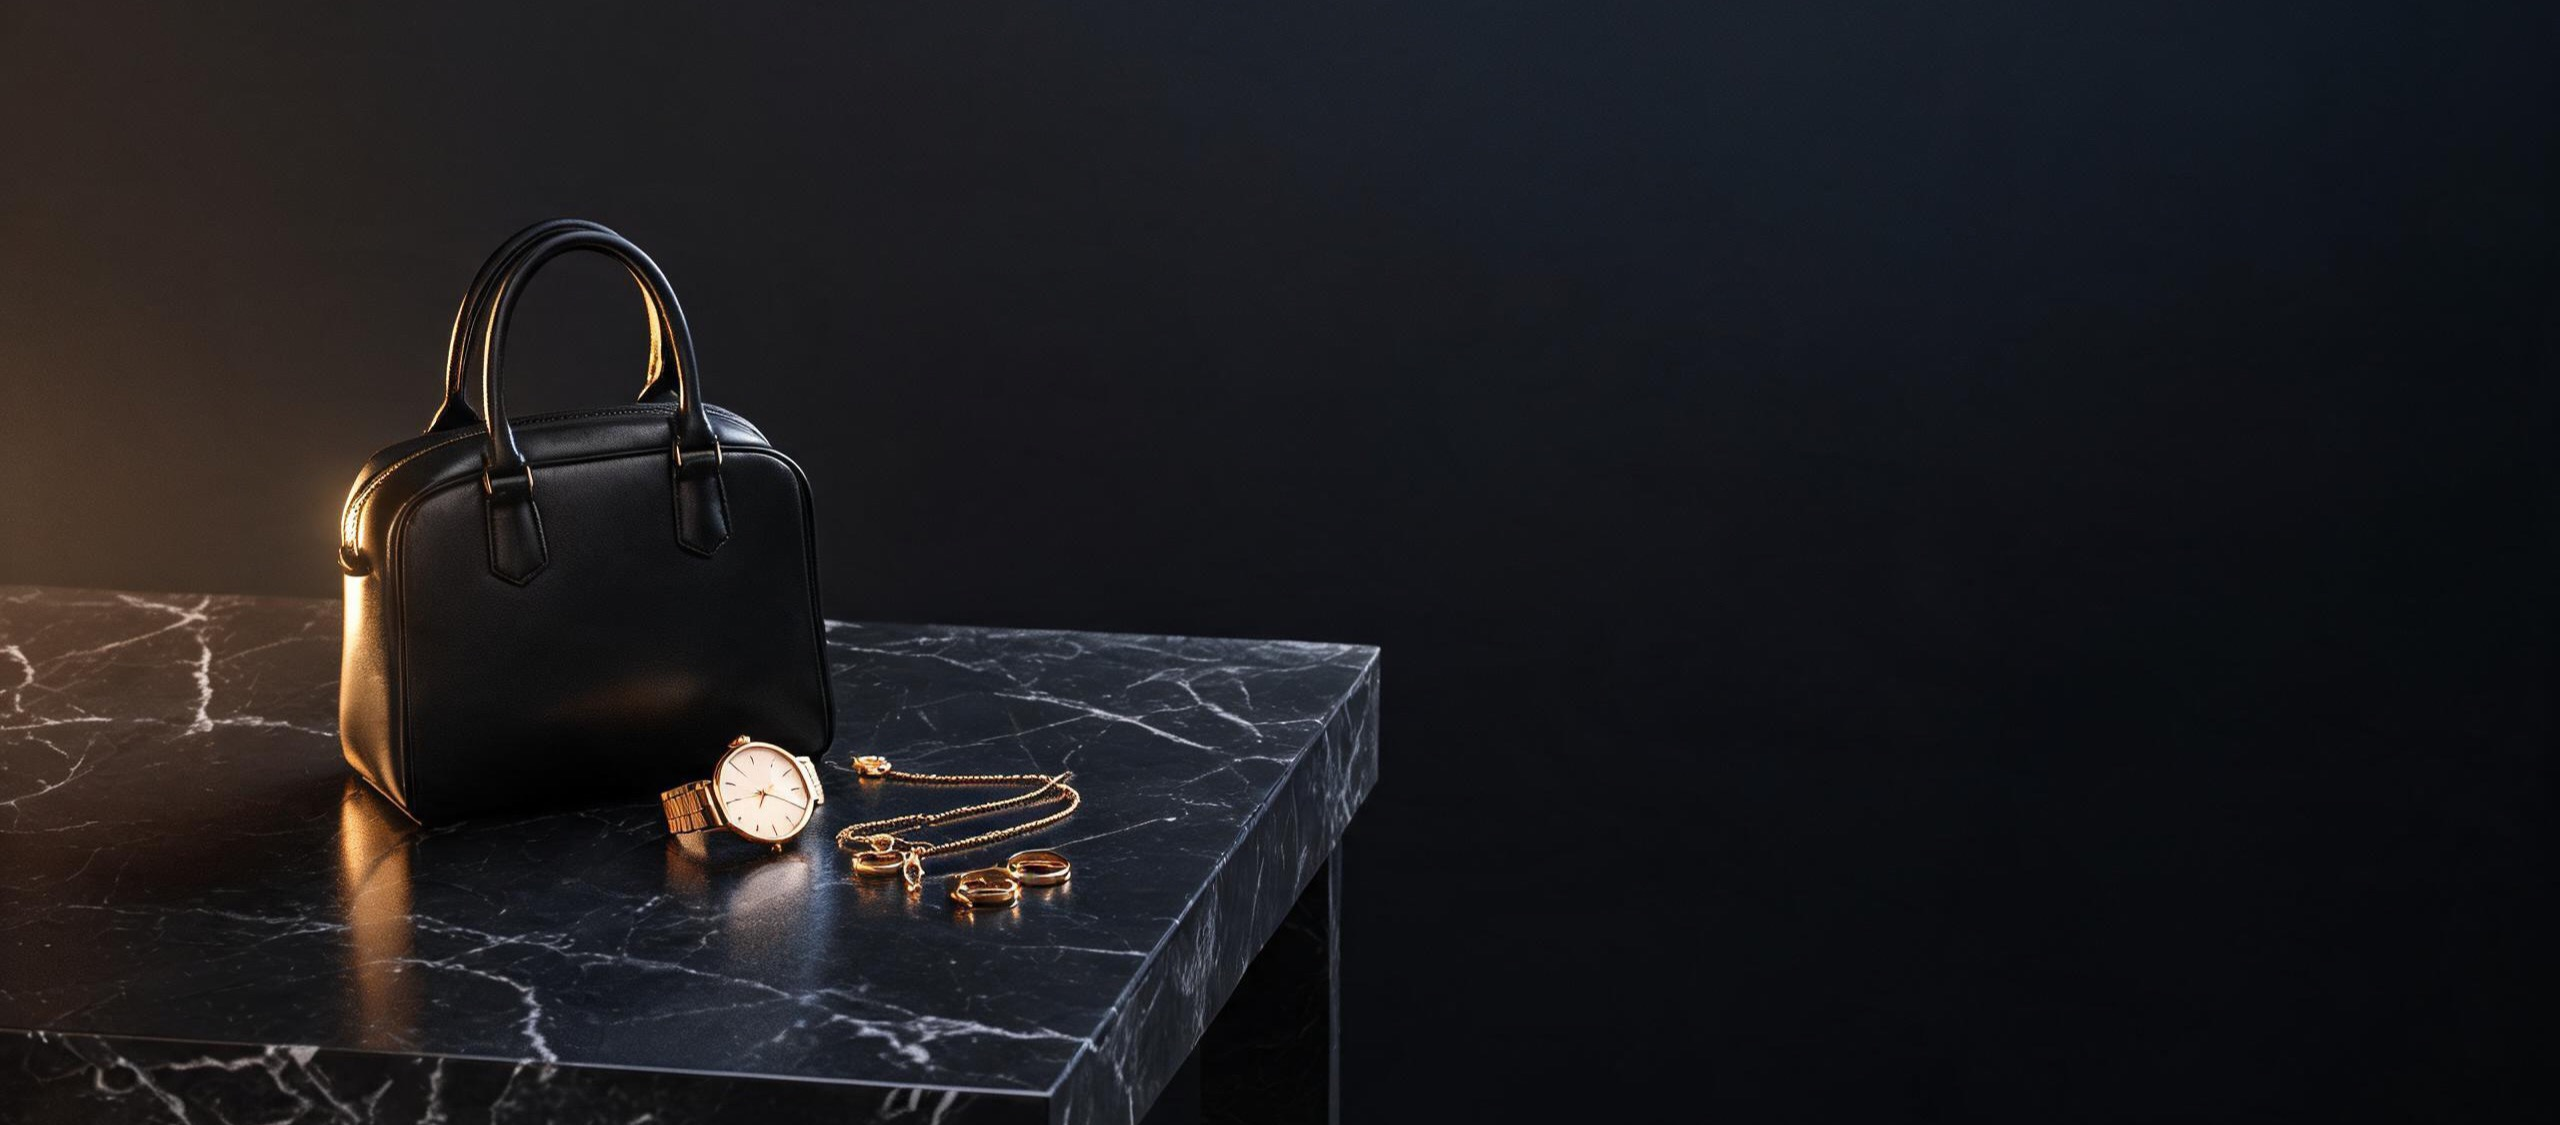
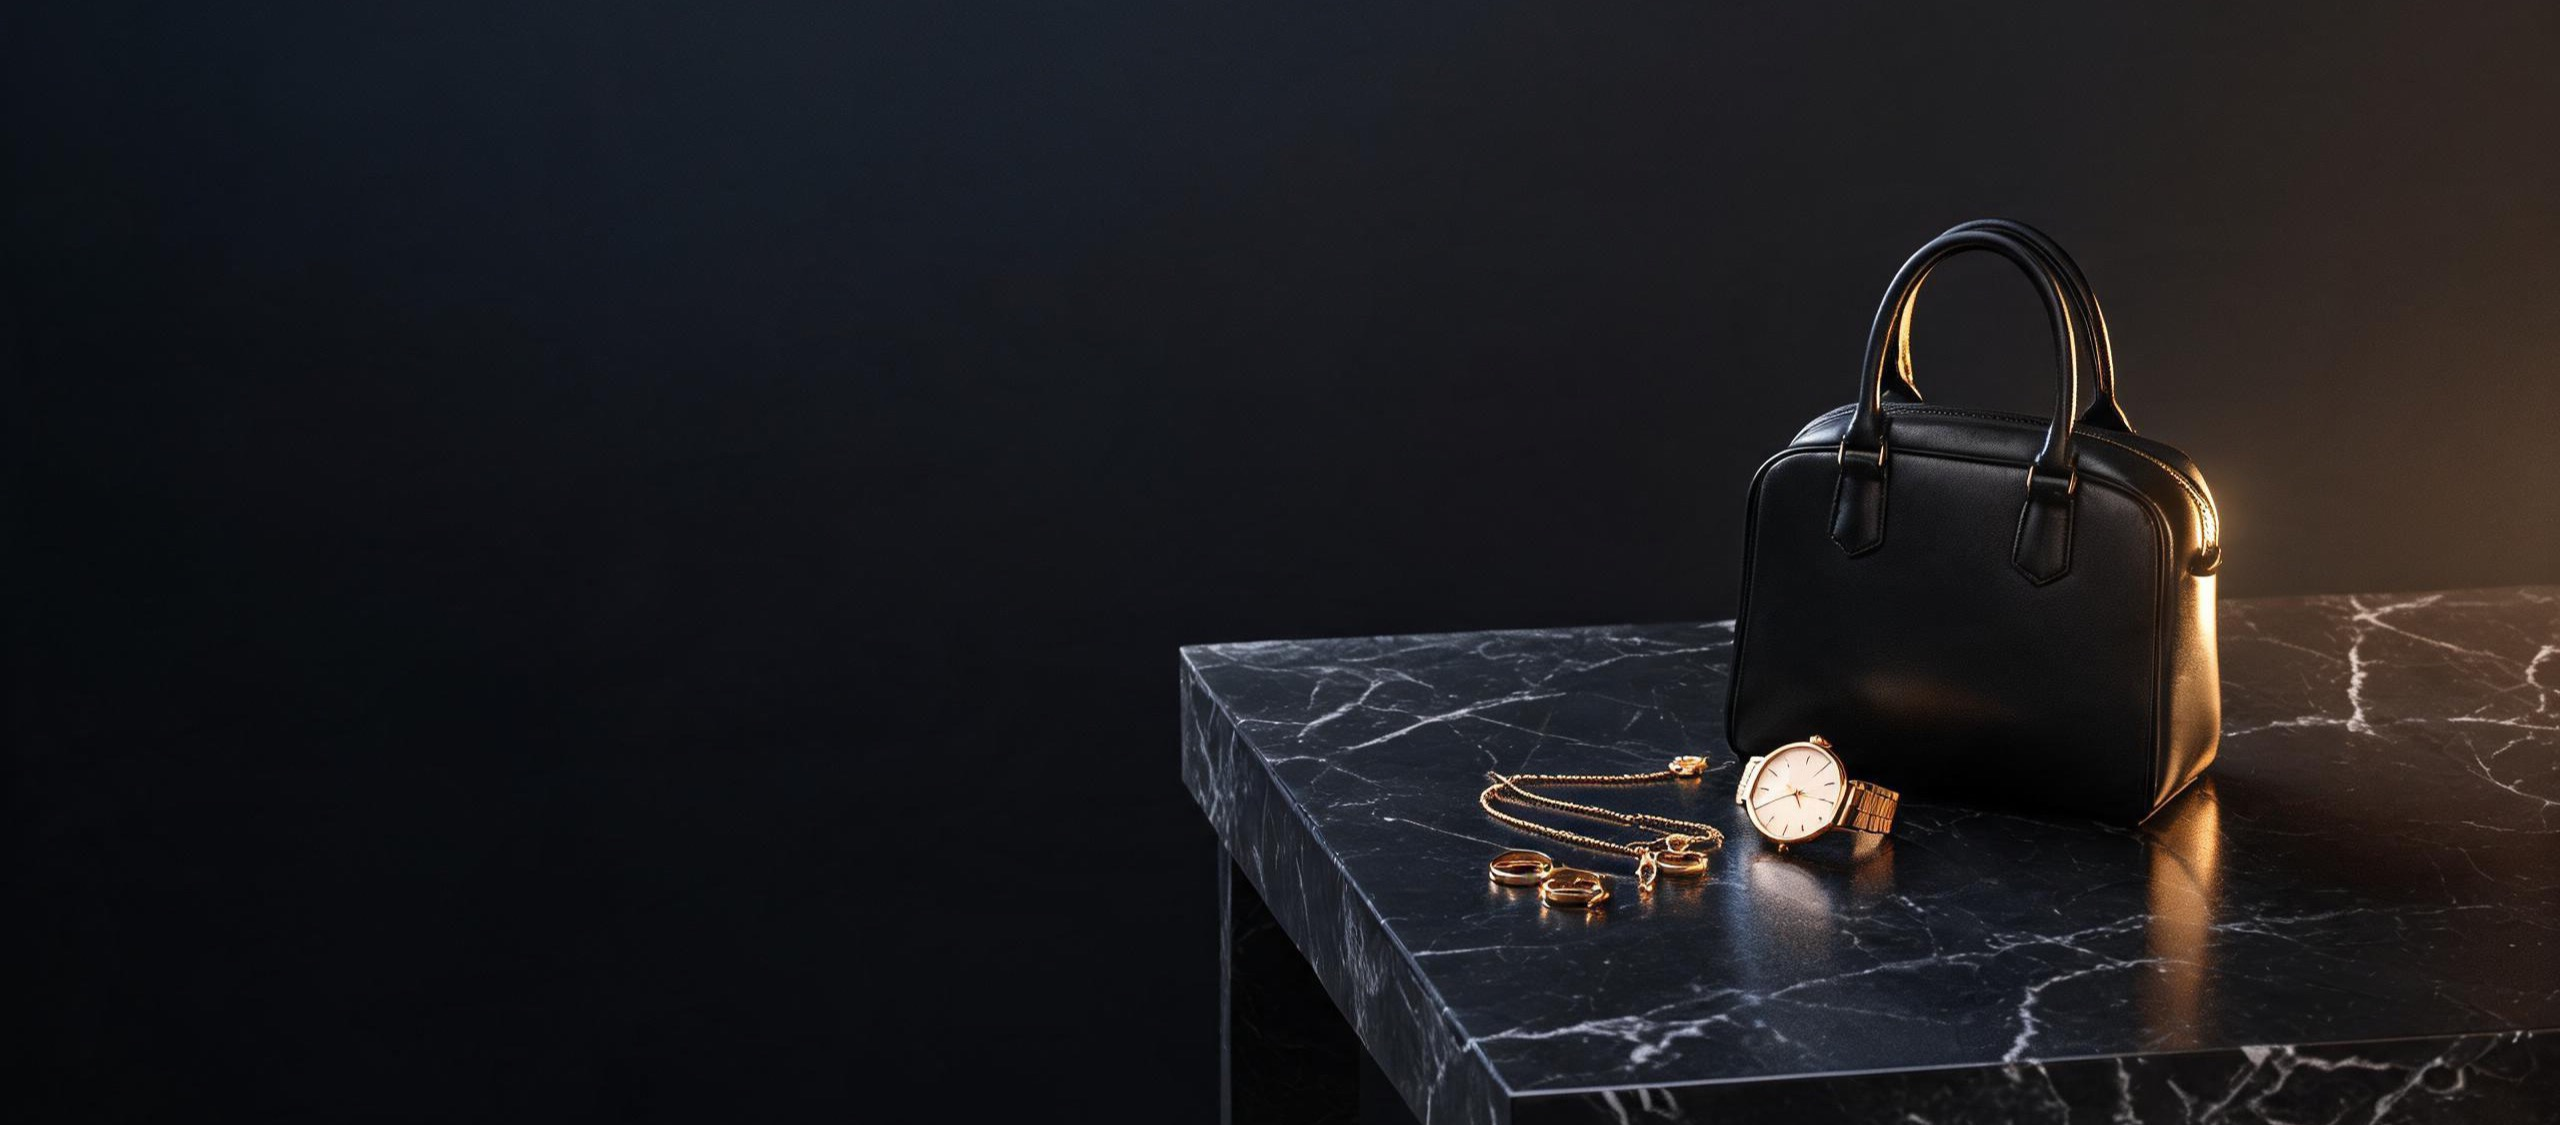
fix(theme): mirror hero image — subject right, text left, no overlap

diff --git a/wp-content/themes/twentytwentyfive-luxury/style.css b/wp-content/themes/twentytwentyfive-luxury/style.css
@@ -5,7 +5,7 @@ Description: Luxury fashion child theme of Twenty Twenty-Five. Dark gold palette
 Author: Custom
 Author URI: https://example.com
 Template: twentytwentyfive
-Version: 1.0.10
+Version: 1.0.11
 Text Domain: tt5-luxury
 */
 
